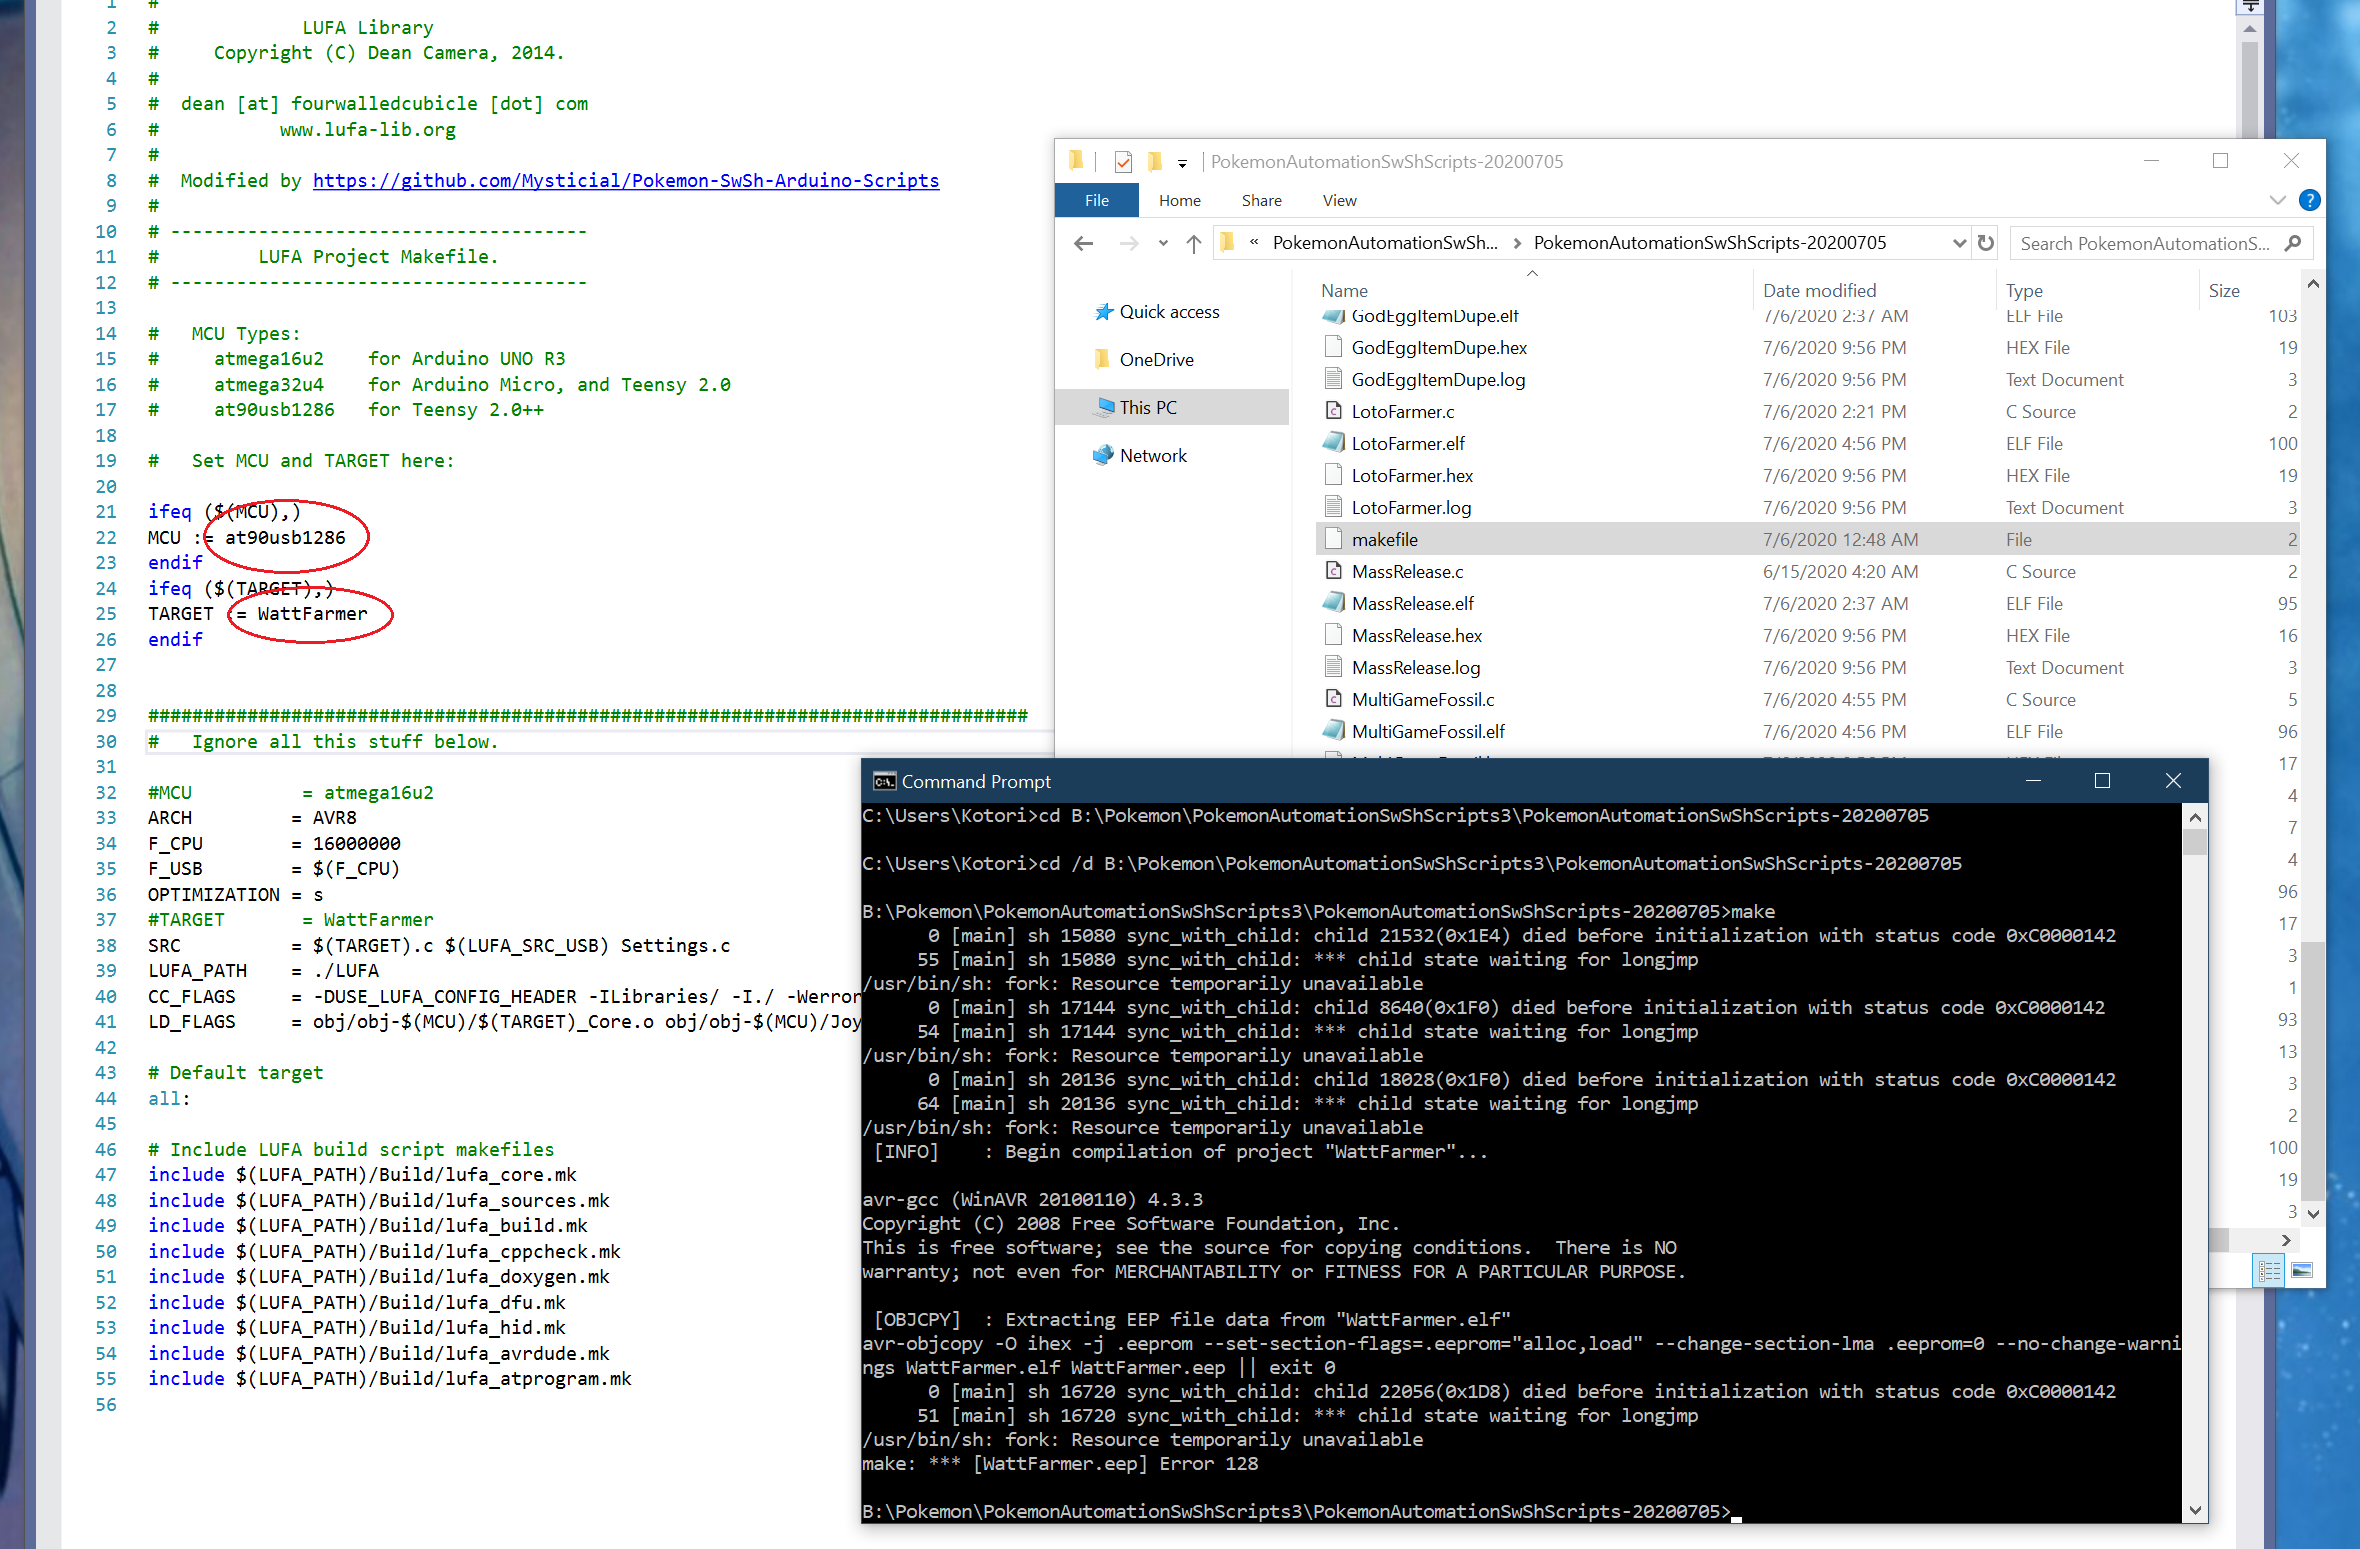
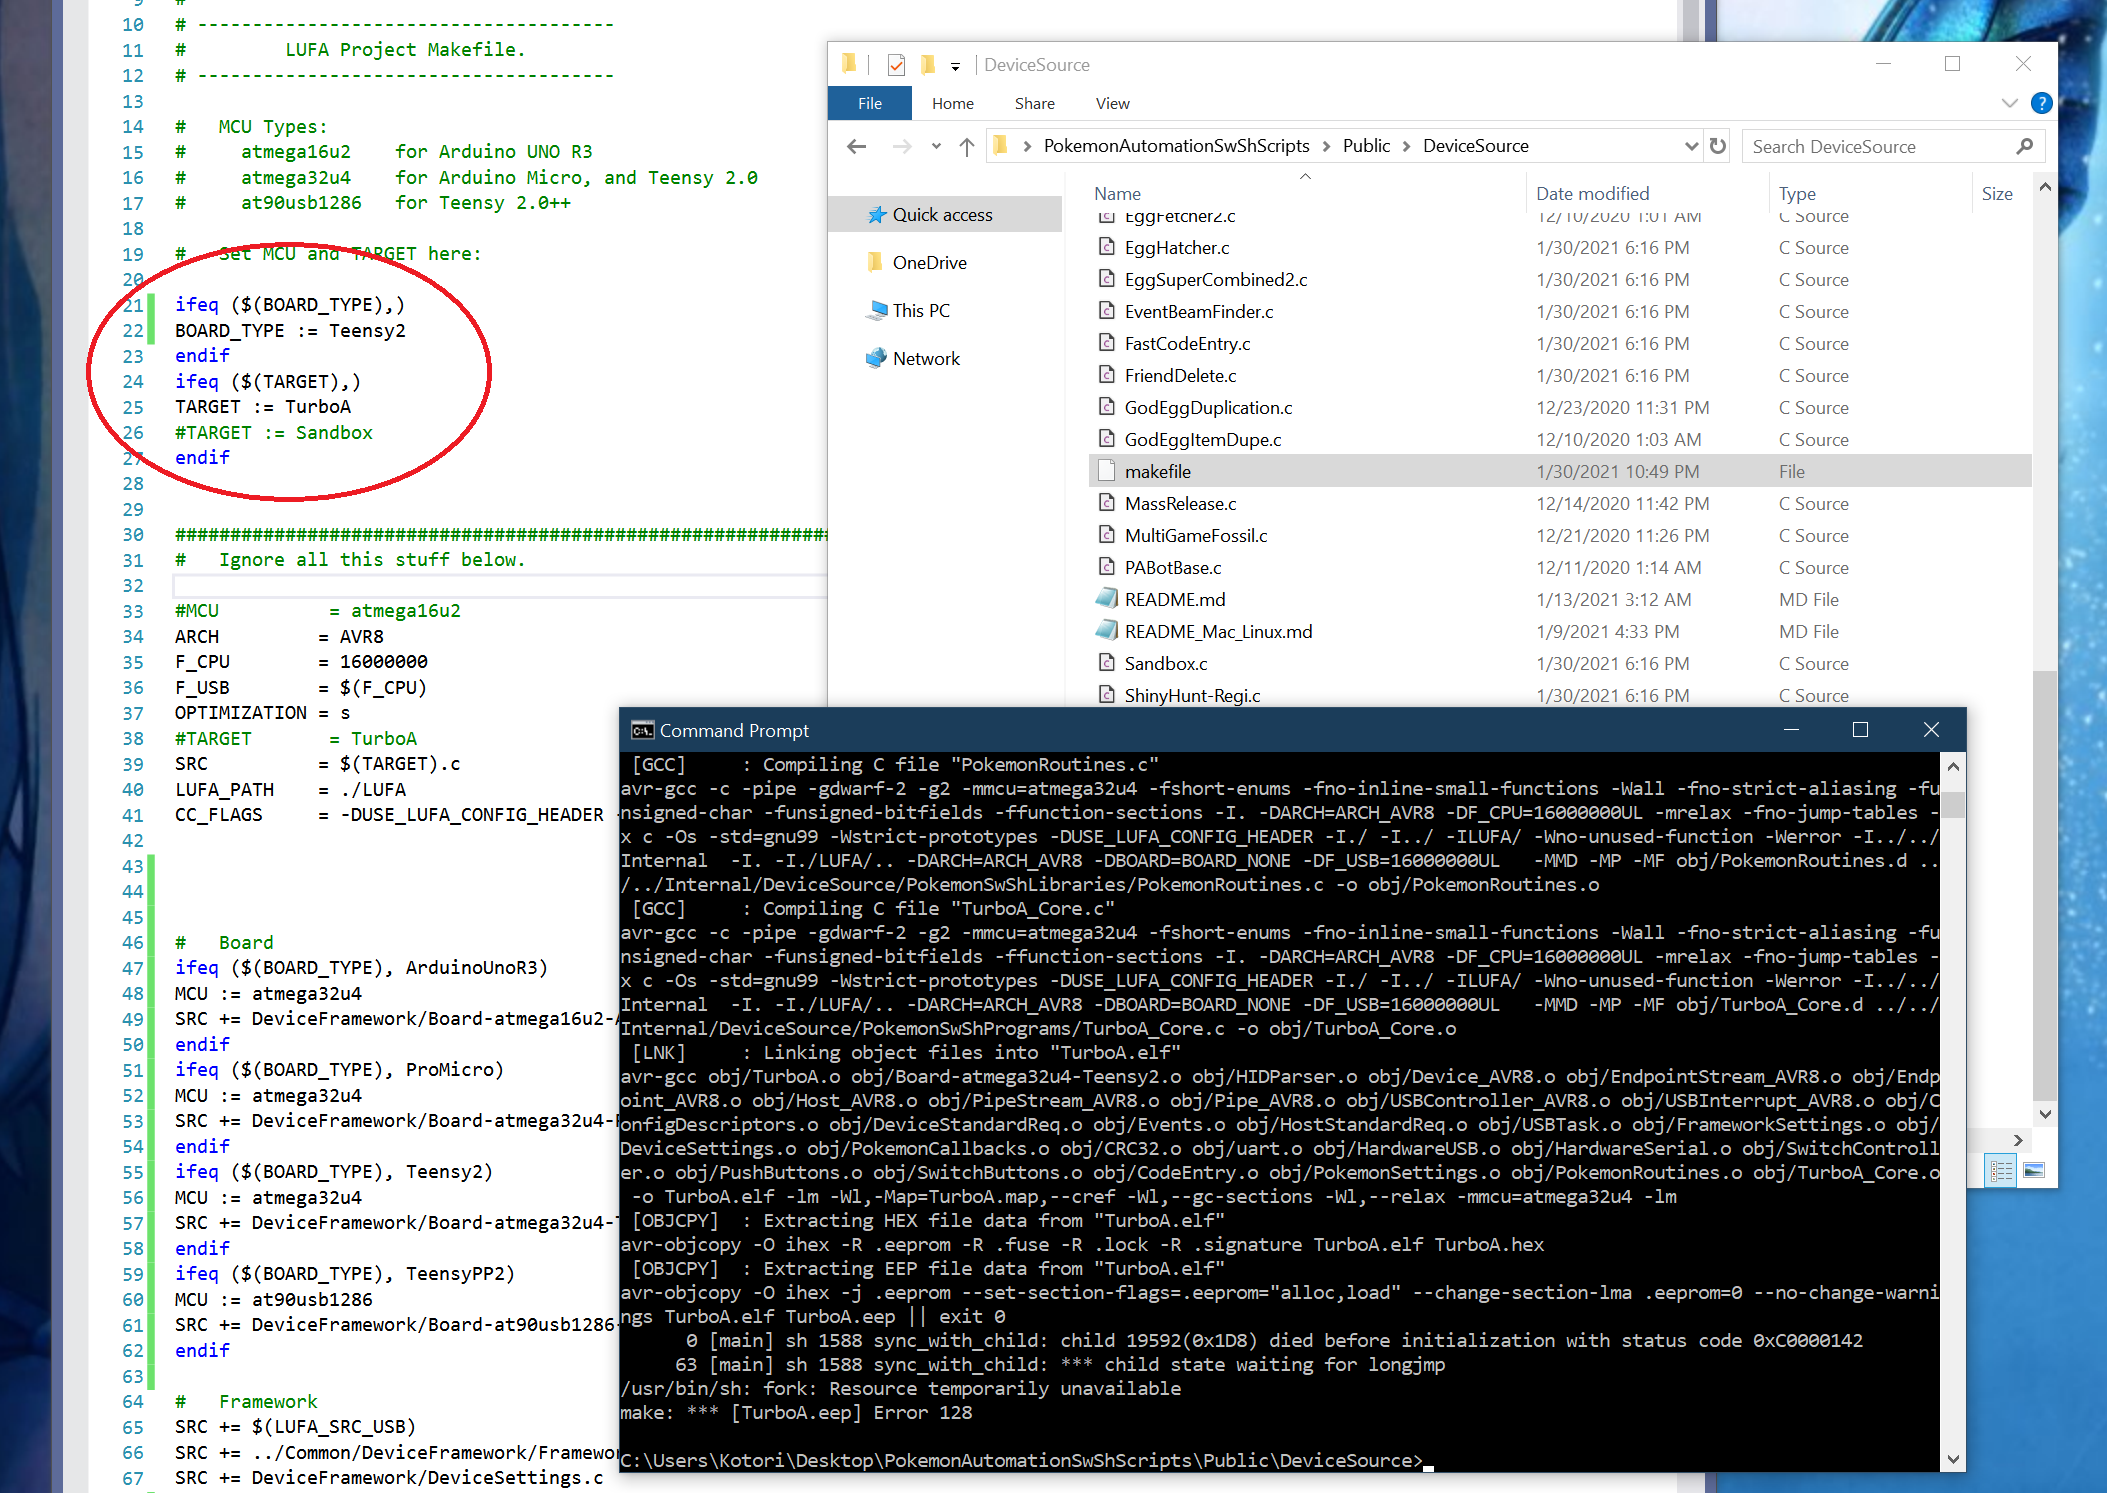
Update documentation to latest.

diff --git a/Documentation/HowToUse.md b/Documentation/HowToUse.md
@@ -52,10 +52,11 @@ The program should be fairly self-explanatory. Once you have selected the option
 
 ### Method 2: Run the BuildAll-xxxx.cmd file. (Windows only)
 
-Go into the folder “DeviceSource” and you will find 3 BuildAll scripts corresponding to the 3 different MCU types.
-- !BuildAll-at90usb1286.cmd (for Teensy++ 2.0)
-- !BuildAll-atmega16u2.cmd (for Arduino UNO R3)
-- !BuildAll-atmega32u4.cmd (for Arduino Micro, and Teensy 2.0)
+Go into the folder “DeviceSource” and you will find 3 BuildAll scripts corresponding to the 4 different board types.
+- !BuildAll-ArduinoUnoR3.cmd
+- !BuildAll-ProMicro.cmd
+- !BuildAll-Teensy2.0.cmd
+- !BuildAll-Teensy++2.0.cmd
 
 If you double-click on it, it will build every single program in the package. It should look similar to this:
 
@@ -65,7 +66,7 @@ Depending on how fast your computer is, it may take several seconds or longer to
 
 Errors are logged into the respective .log file for the program (for example "WattFarmer.log"). If you don’t see any .log files, it’s because you have file extensions disabled. In that case, the file will just be named "WattFarmer".
 
-If you are comfortable with shell scripting and you don’t want to keep rebuilding all the programs, you can edit "Scripts/BuildAll.cmd" to build only a subset of the programs.
+If you are comfortable with shell scripting and you don't want to keep rebuilding all the programs, you can edit "Scripts/BuildAll.cmd" to build only a subset of the programs.
 
 ### Method 3: Run the 00-BuildAllUnix.sh file. (Mac and Linux)
 
@@ -111,7 +112,7 @@ Go into the folder "DeviceSource", then you need to run the "00-FlashUnix.sh" sc
 4. Press enter.
 
 Once you run the script, it will prompt you for:
-- The MCU type.
+- The board type.
 - Which program to compile and load.
 
 It will automatically build the program and flash it to your device.
@@ -120,7 +121,7 @@ It will automatically build the program and flash it to your device.
 
 This method is almost identical to brianuuuSonic's AutoController v3.1.0 programs. Edit the makefile and run `make` to build the .hex file.
 
-In the folder "DeviceSource", open the file "makefile" and edit the `MCU` and `TARGET` manually. Then save the file and run `make` from the command line.
+In the folder "DeviceSource", open the file "makefile" and edit the `BOARD_TYPE` and `TARGET` manually. Then save the file and run `make` from the command line.
 
 <img src="images/HowToUse-3.png" width="800">
 

diff --git a/Documentation/README.md b/Documentation/README.md
@@ -110,6 +110,15 @@ This project was originally started by Mysticial back in March 2020 as a stand-a
 
 As of this writing, Pokémon Automation's Arduino programs have been developed independently. With the exception of the LUFA library and the low-level USB descriptors, this project shares no code with and bears no resemblance to any other Arduino Switch programs.
 
+## Contributors
+- Mysticial - Project founder.
+- SakuraKim - Release management, development, and R&D.
+- denvoros - Build scripts, Mac support, and AI R&D.
+- MrDonders - R&D
+- joyrida - Build scripts and Mac support.
+
+And countless users and testers in the Pokémon Automation Discord Server.
+
 ## License
 
 You are free to use and distribute this original package for personal use only.

diff --git a/Documentation/Programs/GodEggDuplication.md b/Documentation/Programs/GodEggDuplication.md
@@ -33,7 +33,7 @@ The program will clone each Pokémon in your party. Then it repeats the process 
 
 ## Strongly Recommended:
 - Have the Oval Charm.
-- Have a fully upgraded bike.
+- The Ditto and the God Egg should have different OTs.
 
 ## Safety Recommendations:
 - Don't leave any Pokémon you care about in the game. This program releases Pokémon and has been observed to fail in a way that saves the game.

diff --git a/Documentation/Programs/GodEggItemDupe.md b/Documentation/Programs/GodEggItemDupe.md
@@ -32,7 +32,7 @@ The program will clone each Pokémon in your party, take its item, and release i
 
 ## Strongly Recommended:
 - Have the Oval Charm.
-- Have a fully upgraded bike.
+- The Ditto and the God Egg should have different OTs.
 
 ## Safety Recommendations:
 - Don't leave any Pokémon you care about in the game. This program releases Pokémon and has been observed to fail in a way that saves the game.

diff --git a/Documentation/VersionHistory.md b/Documentation/VersionHistory.md
@@ -1,5 +1,12 @@
 # Version History
 
+### 2021-01-30:
+- Replace MCU selection with board selection.
+- Added support for the Pro Micro board.
+
+### 2021-01-25:
+- Fixed incorrect counting for Regigigas hunting serial logging.
+
 ### 2021-01-21:
 -  Added an alternate launch script because the main one keeps getting nuked by virus scanners.
 -  The UI now shows full file paths.
